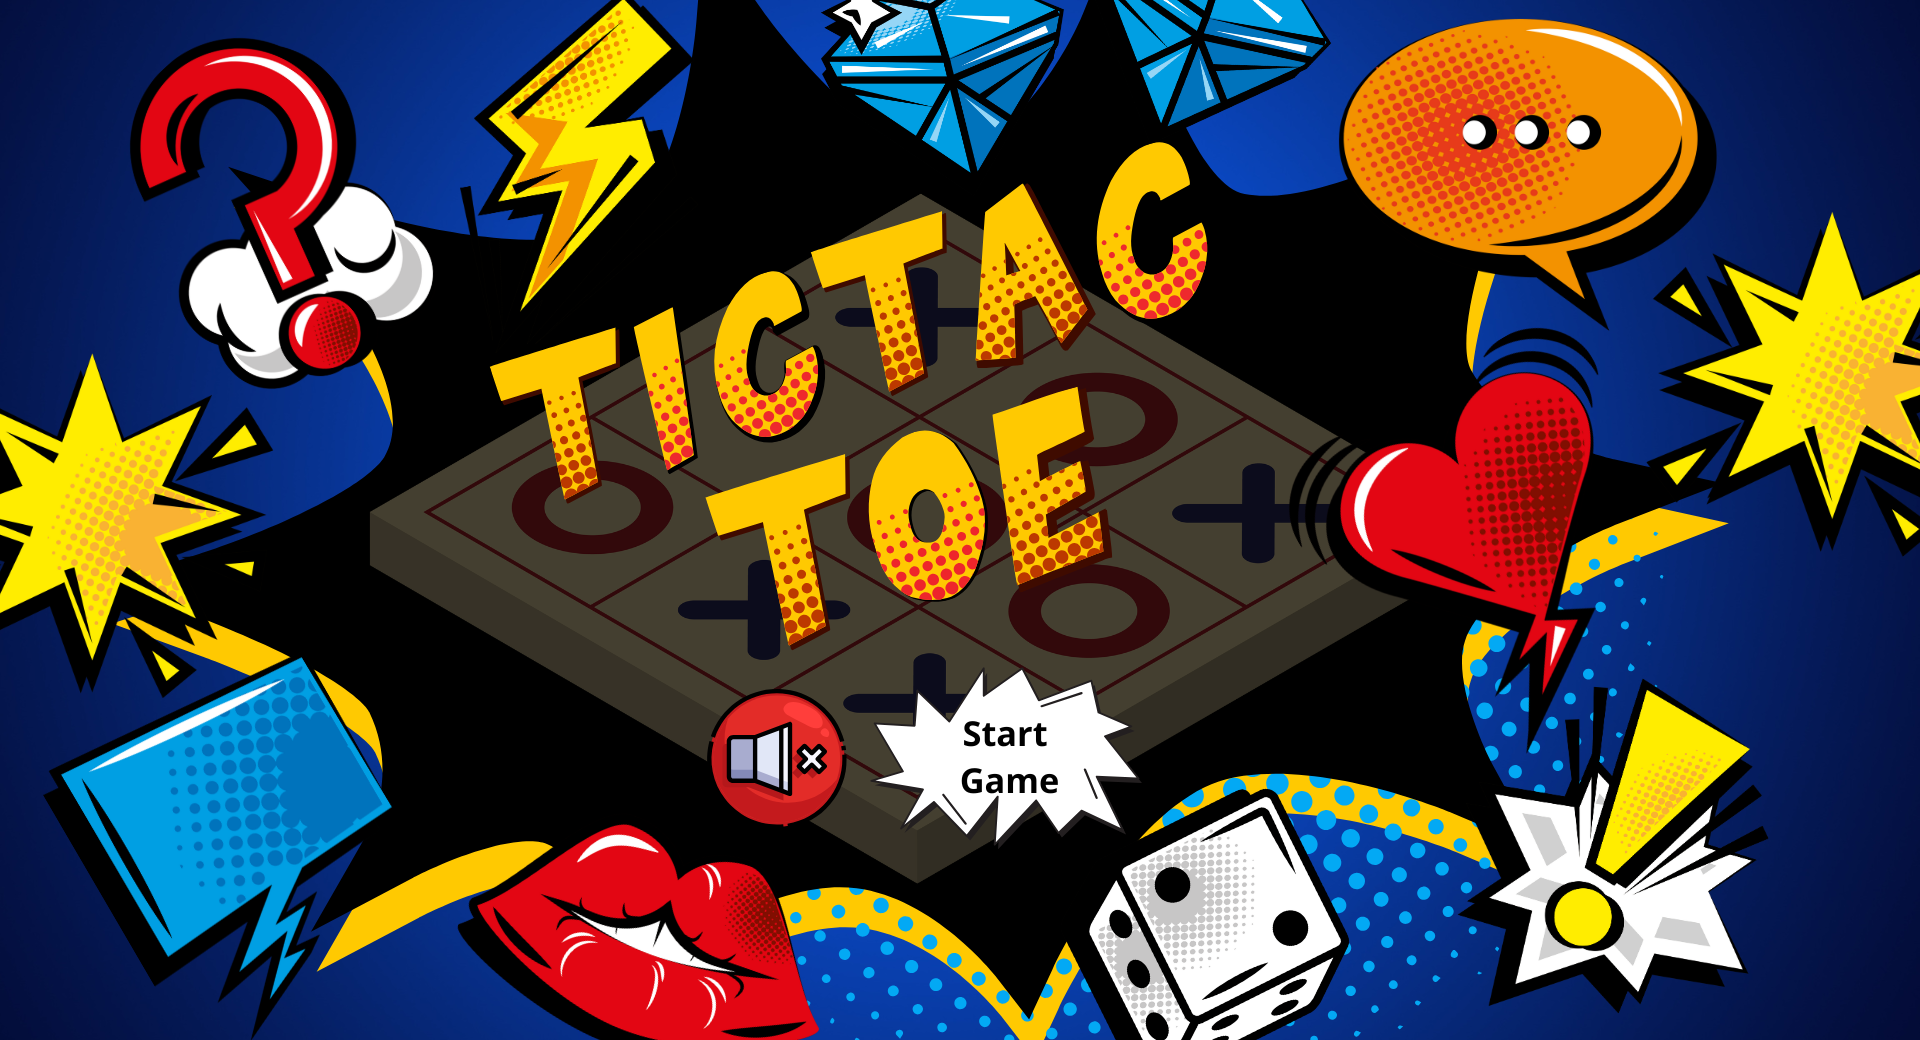
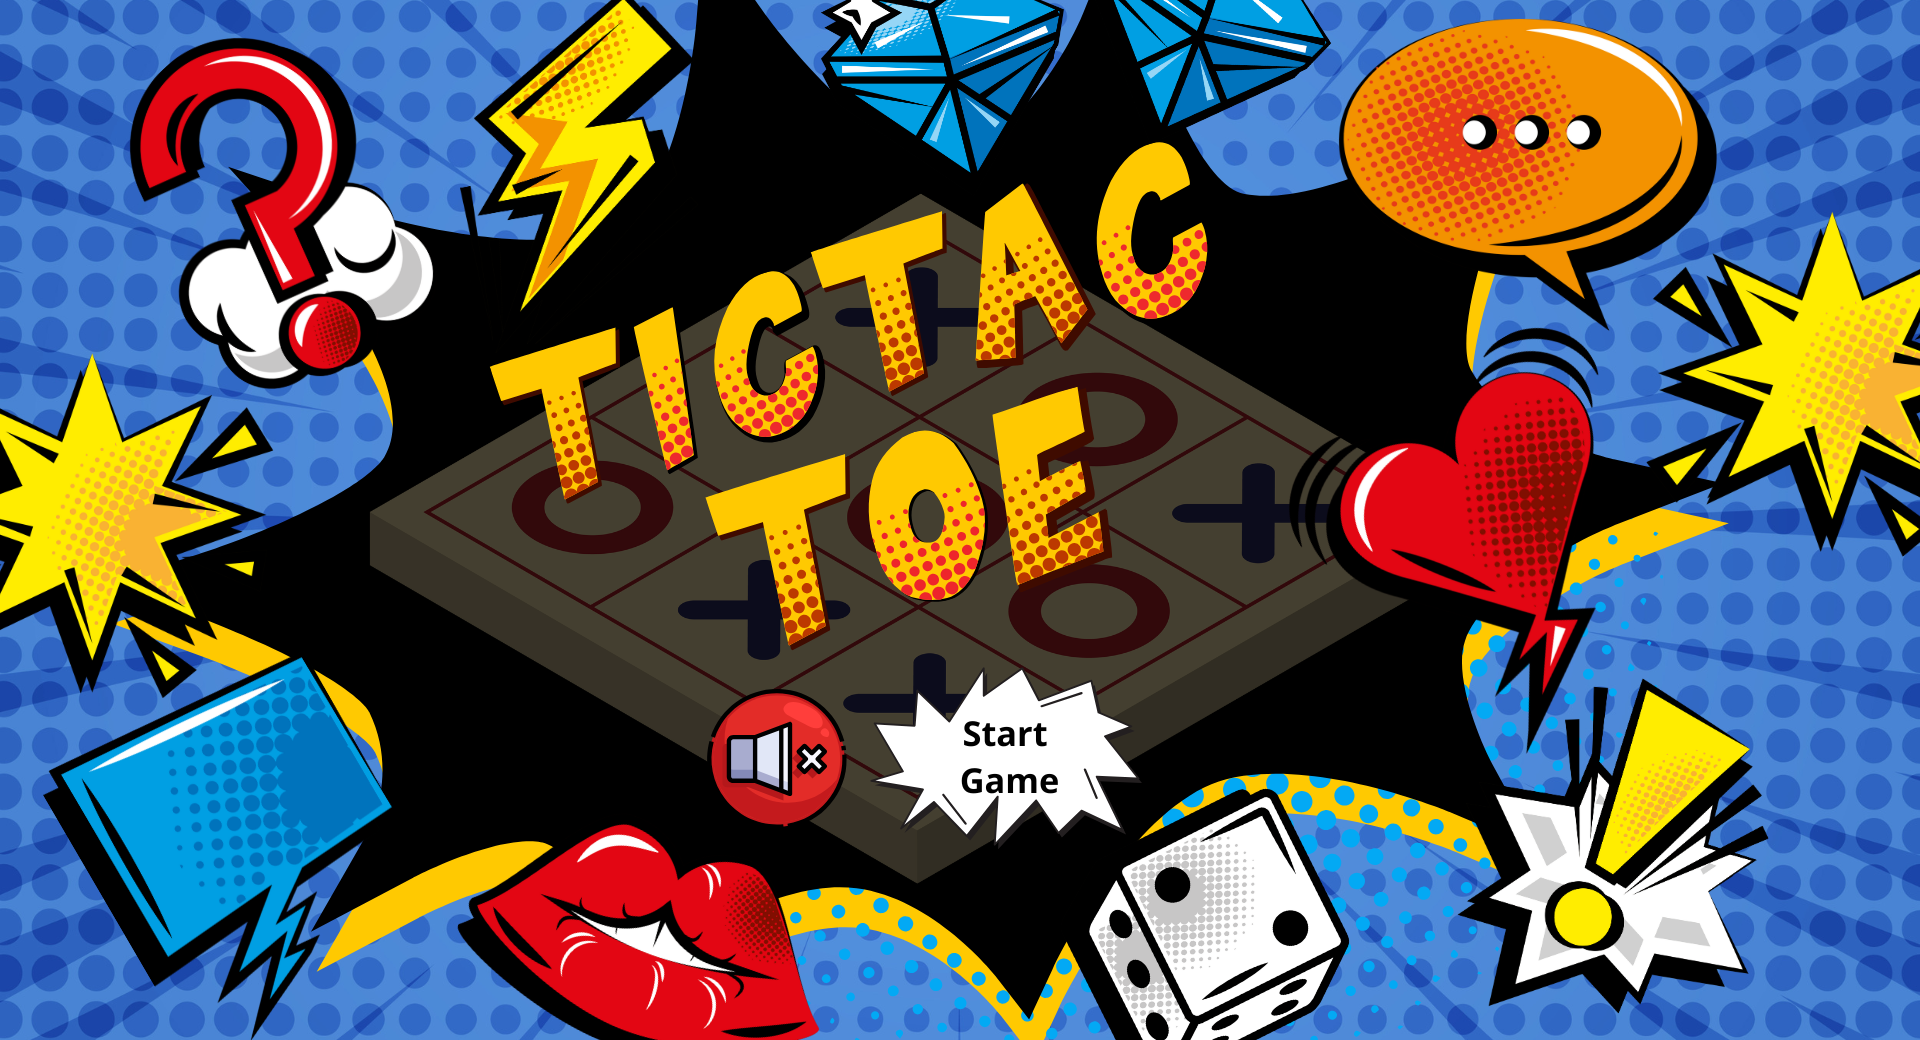
ganti background

diff --git a/src/TTT/TTT.java b/src/TTT/TTT.java
@@ -197,7 +197,7 @@ public class TTT extends JPanel {
         gridSelectionPanel = new JPanel(new BorderLayout());
 
         // Load the background image
-        ImageIcon backgroundIcon = new ImageIcon("src/images/gridpanel.png");
+        ImageIcon backgroundIcon = new ImageIcon("src/images/grid.png");
         JLabel backgroundLabel = new JLabel(backgroundIcon);
         backgroundLabel.setLayout(new GridBagLayout());
 
